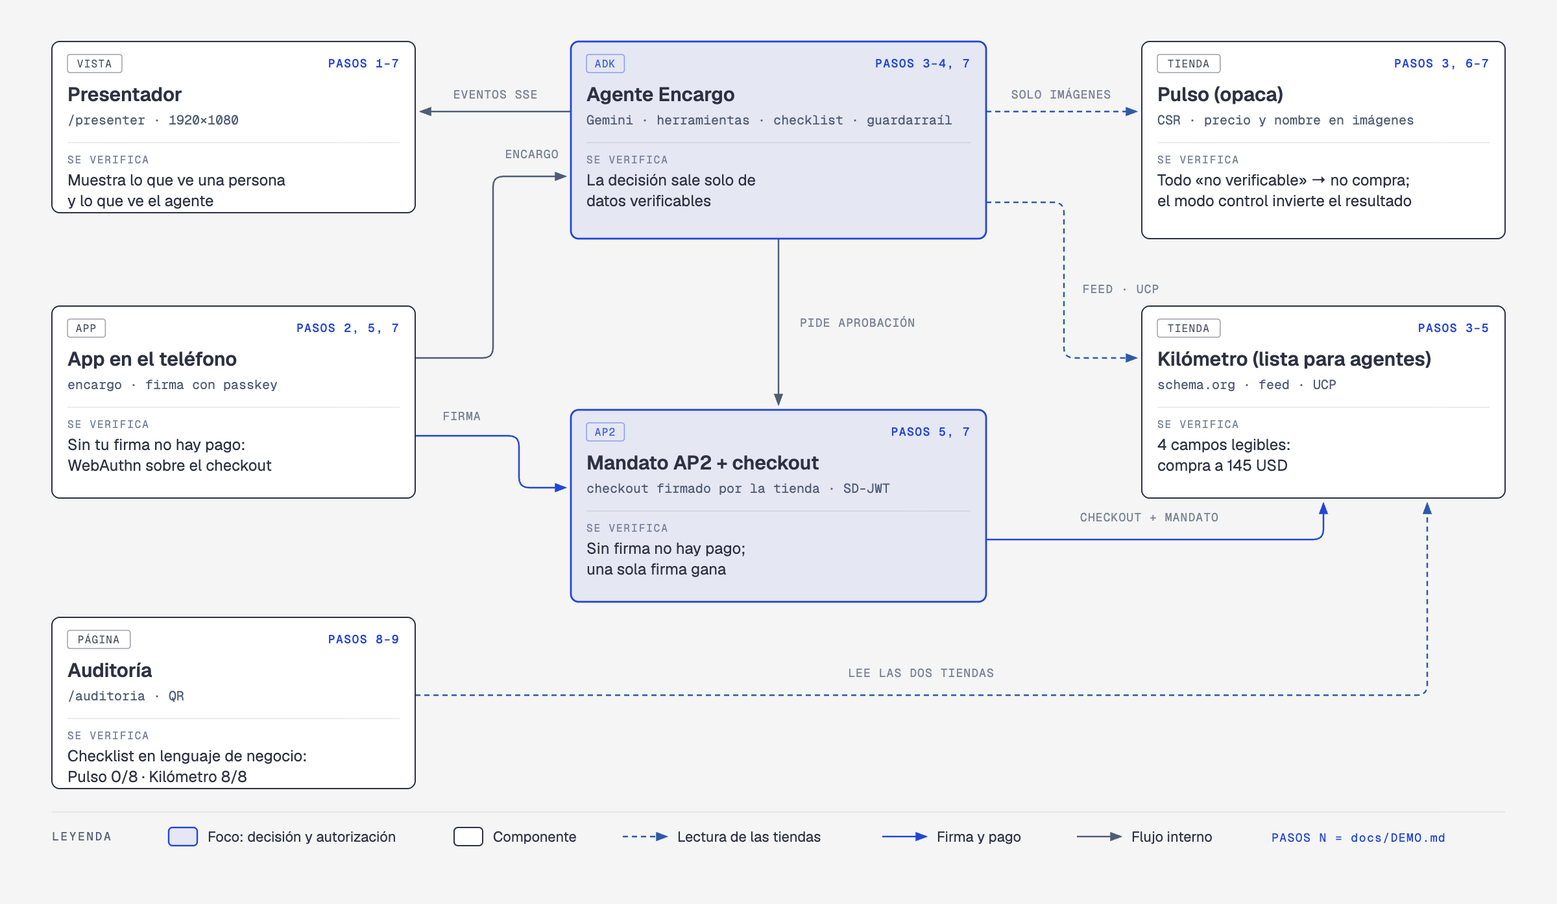
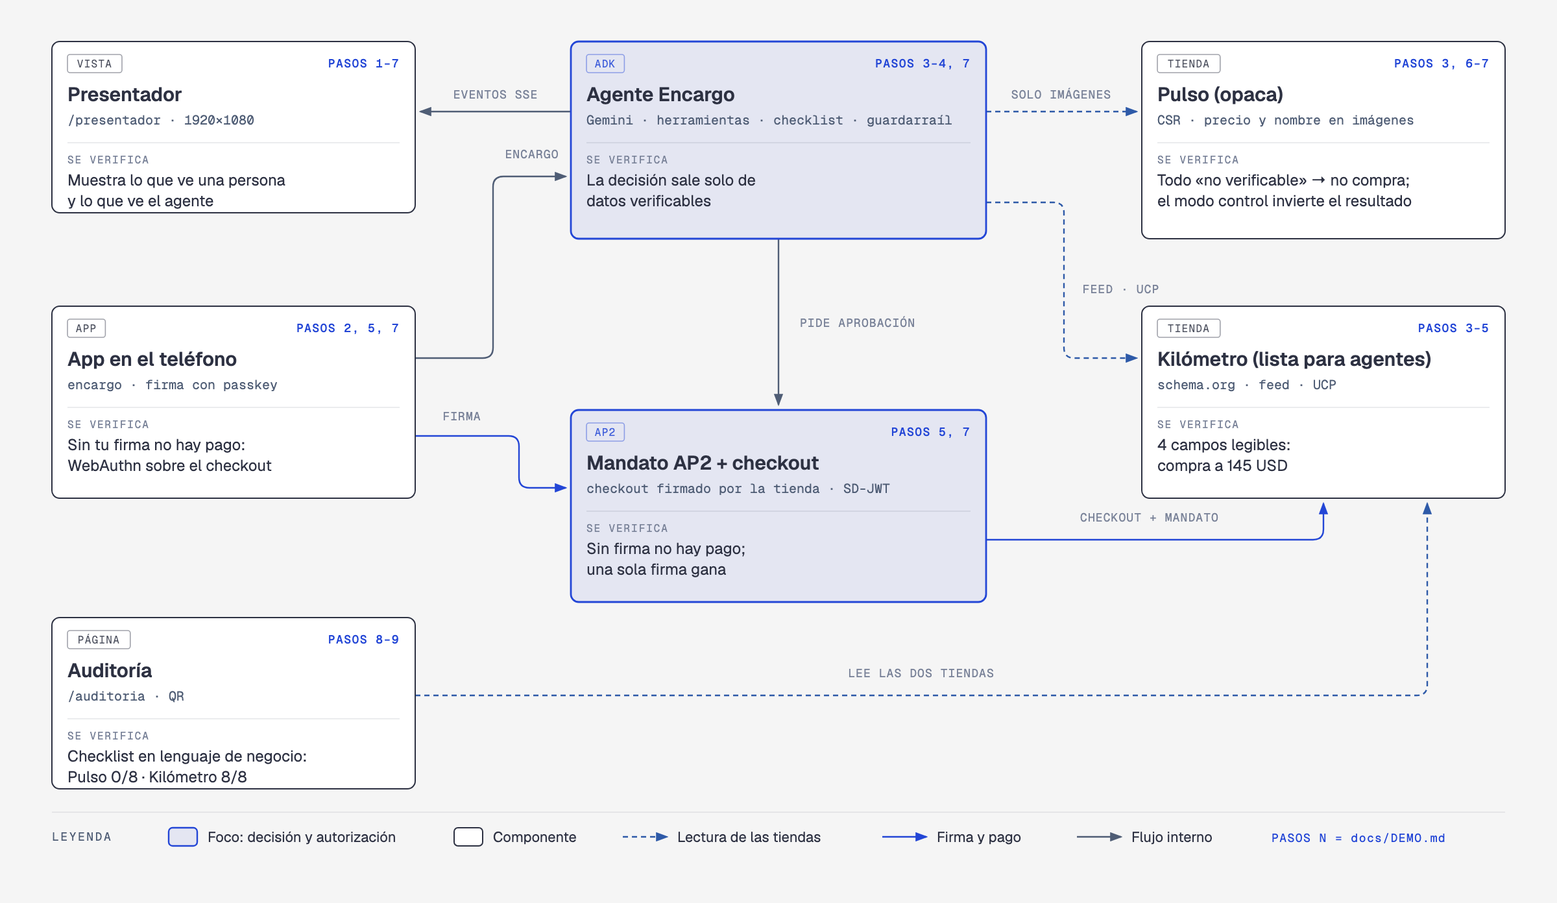
Docs: which pages are the product anyone can try and which is only the projector view; /presentador everywhere; phone screenshots; cold-start changes; diagrams re-rendered; real URL instead of an example domain in .env.example

diff --git a/docs/diagrams/que-se-prueba.html b/docs/diagrams/que-se-prueba.html
@@ -59,7 +59,7 @@
       <text x="73.0" y="116" fill="#2d3142" fill-opacity="0.85" font-size="8" font-family="'Geist Mono', monospace" text-anchor="middle" letter-spacing="0.08em">VISTA</text>
       <text x="308" y="116" fill="#2346D6" font-size="9" font-weight="500" font-family="'Geist Mono', monospace" text-anchor="end" letter-spacing="0.08em">PASOS 1–7</text>
       <text x="52" y="142" fill="#2d3142" font-size="15" font-weight="600" font-family="'Geist', sans-serif">Presentador</text>
-      <text x="52" y="160" fill="#4f5d75" font-size="10" font-family="'Geist Mono', monospace">/presenter · 1920×1080</text>
+      <text x="52" y="160" fill="#4f5d75" font-size="10" font-family="'Geist Mono', monospace">/presentador · 1920×1080</text>
       <line x1="52" y1="174" x2="308" y2="174" stroke="rgba(45,49,66,0.12)" stroke-width="0.8"/>
       <text x="52" y="190" fill="#7a8399" font-size="8" font-family="'Geist Mono', monospace" letter-spacing="0.12em">SE VERIFICA</text>
       <text x="52" y="207" fill="#2d3142" font-size="12" font-family="'Geist', sans-serif">Muestra lo que ve una persona</text>

diff --git a/docs/diagrams/architecture.html b/docs/diagrams/architecture.html
@@ -106,7 +106,7 @@
       <rect x="48" y="358" width="40" height="12" rx="2" fill="none" stroke="rgba(122,131,153,0.40)" stroke-width="0.8"/>
       <text x="68" y="367" fill="#7a8399" font-size="7" font-family="'Geist Mono', monospace" text-anchor="middle" letter-spacing="0.08em">LAPTOP</text>
       <text x="130" y="388" fill="#2d3142" font-size="12" font-weight="600" font-family="'Geist', sans-serif" text-anchor="middle">Presentador</text>
-      <text x="130" y="404" fill="#4f5d75" font-size="9" font-family="'Geist Mono', monospace" text-anchor="middle">/presenter · 1920×1080</text>
+      <text x="130" y="404" fill="#4f5d75" font-size="9" font-family="'Geist Mono', monospace" text-anchor="middle">/presentador · 1920×1080</text>
       <rect x="304" y="280" width="200" height="64" rx="6" fill="#f5f5f5"/>
       <rect x="304" y="280" width="200" height="64" rx="6" fill="#ffffff" stroke="#2d3142" stroke-width="1"/>
       <rect x="312" y="286" width="28" height="12" rx="2" fill="none" stroke="rgba(45,49,66,0.40)" stroke-width="0.8"/>

diff --git a/README.md b/README.md
@@ -20,7 +20,7 @@ Demo de la charla **«Tu próximo cliente es un agente de IA»**. Encargo es un 
 
 No se corre ningún comando. Se abren dos páginas en el mismo Chrome del portátil:
 
-- **Presentador**, en el proyector: https://encargo-app-611681112050.us-central1.run.app/presenter. Al abrirse despierta las tiendas, el agente y Gemini, y si llevaba rato sin uso empieza de cero. Dice «Preparando la demo…» y, en unos 15–20 s, «Envía un encargo desde la app». Ahí están el interruptor del modo de control, «Empezar de nuevo» y «Ver la ejecución grabada» (el plan B).
+- **Presentador** (vista del proyector, solo para la demo en vivo), en el proyector: https://encargo-app-611681112050.us-central1.run.app/presentador. Al abrirse despierta las tiendas, el agente y Gemini, y si llevaba rato sin uso empieza de cero. Dice «Preparando la demo…» y, en unos 15–20 s, «Envía un encargo desde la app». Ahí están el interruptor del modo de control, «Empezar de nuevo» y «Ver la ejecución grabada» (el plan B).
 - **Teléfono**, en la pantalla del portátil: https://encargo-app-611681112050.us-central1.run.app. Se envía el encargo y se firma con Touch ID.
 
 El guion completo está en [docs/DEMO.md](docs/DEMO.md).
@@ -33,24 +33,34 @@ gcloud auth application-default login      # ADC para Gemini en Vertex AI (o MOC
 (cd agent && uv run playwright install chromium)
 make up                                    # app :3000, Kilómetro :3001, Pulso :3002, agente :8000
 open "http://localhost:3000/configurar?clave=dev-admin"   # registra una passkey (Touch ID)
-open http://localhost:3000/presenter       # envía el encargo desde http://localhost:3000
+open http://localhost:3000/presentador     # envía el encargo desde http://localhost:3000
 make test                                  # todas las pruebas, sin red
 ```
 
 **Prueba de sesgo** (`make bias-test TARGET=cloud`, 2026-10-01): Kilómetro 9/10 con el modo apagado y Pulso 10/10 con el modo encendido, todas las ejecuciones en menos de 120 s ([detalle](docs/DECISIONES.md#resultados-de-la-prueba-de-sesgo)).
 
-## URLs desplegadas
+## Páginas desplegadas
 
-| Servicio | URL |
-| --- | --- |
-| App (teléfono) | https://encargo-app-611681112050.us-central1.run.app |
-| Presentador | https://encargo-app-611681112050.us-central1.run.app/presenter |
-| Auditoría | https://encargo-app-611681112050.us-central1.run.app/auditoria |
-| Kilómetro | https://encargo-kilometro-611681112050.us-central1.run.app |
-| Pulso | https://encargo-pulso-611681112050.us-central1.run.app |
-| Agente | https://encargo-agent-611681112050.us-central1.run.app (`/health`, `/.well-known/ucp`) |
+**El producto, lo que cualquiera puede probar** (en el teléfono, la tablet o la computadora):
 
-Usa estas URL y no los alias `…-uc.a.run.app`: la passkey está ligada al host de la app (RP ID) y con otro host la firma falla.
+| Página | URL | Qué es |
+| --- | --- | --- |
+| App Encargo | https://encargo-app-611681112050.us-central1.run.app | Escribes el encargo, ves cómo decide el agente y firmas la compra con tu passkey |
+| Auditoría | https://encargo-app-611681112050.us-central1.run.app/auditoria | Pega la dirección de una tienda y ve qué tan lista está para agentes |
+| Kilómetro | https://encargo-kilometro-611681112050.us-central1.run.app | Tienda ficticia lista para agentes |
+| Pulso | https://encargo-pulso-611681112050.us-central1.run.app | Tienda ficticia opaca para agentes |
+
+Todas se adaptan al teléfono y a la tablet. En un teléfono de 375 px: la app, un encargo en curso, la auditoría, Kilómetro, Pulso y el presentador.
+
+![Encargo en el teléfono](docs/demo/movil.png)
+
+**Solo para la demo en vivo:**
+
+| Página | URL | Qué es |
+| --- | --- | --- |
+| Presentador | https://encargo-app-611681112050.us-central1.run.app/presentador | La vista del proyector: muestra en grande lo que ve una persona, el razonamiento del agente y lo que ve el agente. Prepara los servicios al abrirse y tiene los botones de la charla. No es parte del producto |
+
+El agente no tiene página: es un servicio (https://encargo-agent-611681112050.us-central1.run.app, con `/health` y `/.well-known/ucp`). La dirección vieja `/presenter` lleva al presentador.
 
 ## Documentación
 

diff --git a/README.en.md b/README.en.md
@@ -20,7 +20,7 @@ The Spanish [README.md](README.md) is the primary document; this is a faithful E
 
 Nothing is run. Two pages are opened in the same Chrome on the laptop:
 
-- **Presenter**, on the projector: https://encargo-app-611681112050.us-central1.run.app/presenter. When it opens it wakes the stores, the agent and Gemini, and if it sat idle for a while it starts from scratch. It says «Preparando la demo…» and, in about 15–20 s, «Envía un encargo desde la app». The control-mode switch, «Empezar de nuevo» and «Ver la ejecución grabada» (Plan B) are there.
+- **Presentador** (projector view, only for the live demo), on the projector: https://encargo-app-611681112050.us-central1.run.app/presentador. When it opens it wakes the stores, the agent and Gemini, and if it sat idle for a while it starts from scratch. It says «Preparando la demo…» and, in about 15–20 s, «Envía un encargo desde la app». The control-mode switch, «Empezar de nuevo» and «Ver la ejecución grabada» (Plan B) are there.
 - **Phone**, on the laptop screen: https://encargo-app-611681112050.us-central1.run.app. The errand is sent and signed with Touch ID there.
 
 The full script is in [docs/DEMO.en.md](docs/DEMO.en.md).
@@ -33,24 +33,34 @@ gcloud auth application-default login      # ADC for Gemini on Vertex AI (or MOC
 (cd agent && uv run playwright install chromium)
 make up                                    # app :3000, Kilómetro :3001, Pulso :3002, agent :8000
 open "http://localhost:3000/configurar?clave=dev-admin"   # register a passkey (Touch ID)
-open http://localhost:3000/presenter       # send the errand from http://localhost:3000
+open http://localhost:3000/presentador     # send the errand from http://localhost:3000
 make test                                  # every test, offline
 ```
 
 **Bias test** (`make bias-test TARGET=cloud`, 2026-10-01): Kilómetro 9/10 with control off and Pulso 10/10 with control on, every run under 120 s ([details](docs/DECISIONES.en.md#bias-test-results)).
 
-## Deployed URLs
+## Deployed pages
 
-| Service | URL |
-| --- | --- |
-| App (phone) | https://encargo-app-611681112050.us-central1.run.app |
-| Presenter | https://encargo-app-611681112050.us-central1.run.app/presenter |
-| Audit | https://encargo-app-611681112050.us-central1.run.app/auditoria |
-| Kilómetro | https://encargo-kilometro-611681112050.us-central1.run.app |
-| Pulso | https://encargo-pulso-611681112050.us-central1.run.app |
-| Agent | https://encargo-agent-611681112050.us-central1.run.app (`/health`, `/.well-known/ucp`) |
+**The product, what anyone can try** (on a phone, tablet or computer):
 
-Use these URLs, not the `…-uc.a.run.app` aliases: the passkey is bound to the app's host name (RP ID), and on another host the signature fails.
+| Page | URL | What it is |
+| --- | --- | --- |
+| Encargo app | https://encargo-app-611681112050.us-central1.run.app | Write the errand, watch the agent decide and sign the purchase with your passkey |
+| Audit | https://encargo-app-611681112050.us-central1.run.app/auditoria | Paste a store's address and see how ready it is for agents |
+| Kilómetro | https://encargo-kilometro-611681112050.us-central1.run.app | Fictitious agent-ready store |
+| Pulso | https://encargo-pulso-611681112050.us-central1.run.app | Fictitious store that is opaque to agents |
+
+They all adapt to phones and tablets. On a 375 px phone: the app, an errand in progress, the audit, Kilómetro, Pulso and the presentador.
+
+![Encargo on a phone](docs/demo/movil.png)
+
+**Only for the live demo:**
+
+| Page | URL | What it is |
+| --- | --- | --- |
+| Presentador | https://encargo-app-611681112050.us-central1.run.app/presentador | The projector view: shows large what a person sees, the agent's reasoning and what the agent sees. It prepares the services when it opens and holds the talk's buttons. Not part of the product |
+
+The agent has no page: it is a service (https://encargo-agent-611681112050.us-central1.run.app, with `/health` and `/.well-known/ucp`). The old `/presenter` address leads to the presentador.
 
 ## Documentation
 

diff --git a/docs/DECISIONES.md b/docs/DECISIONES.md
@@ -199,13 +199,17 @@ El encargo se interpreta con un parser determinista (expresiones regulares) y no
 
 ### El día de la charla no se corre nada: la página del presentador prepara el escenario
 
-Los cuatro servicios quedan con 0 instancias mínimas (`MIN_INSTANCES`, 0 por omisión), así que nada se cobra las 24 horas. Al abrirse, `/presenter` llama a `POST /stage/warmup` del agente (`agent/encargo/stage.py`):
+Los cuatro servicios quedan con 0 instancias mínimas (`MIN_INSTANCES`, 0 por omisión), así que nada se cobra las 24 horas. Al abrirse, `/presentador` llama a `POST /stage/warmup` del agente (`agent/encargo/stage.py`):
 
 - despierta las tiendas (portada, feed y perfil UCP) y el agente;
 - hace una llamada corta a Gemini y arranca Chromium, como mucho cada 5 minutos;
 - si pasaron más de 10 minutos desde el último encargo y no hay uno en curso, reinicia: stock completo, sin pedidos ni encargo en pantalla, modo de control apagado.
 
-Después consulta `GET /stage/status` cada 3 s y muestra «Preparando la demo…» con cada parte hasta que todo responde. Desde 0 instancias tarda unos 16 s (medido el 6 oct 2026 con instancias nuevas, reinicio incluido). Mientras la página siga abierta, cada 4 minutos vuelve a despertar los servicios, así que Cloud Run no los apaga a mitad de la charla. Lo que antes revisaba un portero de línea de comandos ahora lo dice la página: tiendas que no responden, que no haya passkey o que quede poco stock de la talla 9.
+Después consulta `GET /stage/status` cada 3 s y muestra «Preparando la demo…» con cada parte hasta que todo responde. Desde 0 instancias tarda unos 16 s (medido el 6 oct 2026 con instancias nuevas, reinicio incluido). Mientras la página siga abierta, cada 4 minutos vuelve a despertar los servicios, así que Cloud Run no los apaga a mitad de la charla.
+
+**Arranque en frío más corto (7 oct 2026).** El que más tardaba en arrancar era el agente: unos 12 s entre que Cloud Run crea la instancia y el servidor responde, contra ~1.5 s de las tiendas y la app. Tres cambios baratos: la imagen del agente instala solo el Chromium sin interfaz (`playwright install --only-shell`; el agente nunca abre una ventana), con lo que pasa de 677 MB a 492 MB; el servidor arranca directo desde el entorno virtual, sin pasar por `uv run`; y el presentador despierta las tiendas al mismo tiempo que el agente, en vez de esperar a que el agente las despierte. Medido en Cloud Run: el agente arranca en 5.5–9.5 s. Todos los servicios ya tenían el impulso de CPU al arrancar (`startup-cpu-boost`).
+
+Lo que antes revisaba un portero de línea de comandos ahora lo dice la página: tiendas que no responden, que no haya passkey o que quede poco stock de la talla 9.
 
 **Descartado:**
 

diff --git a/docs/DECISIONES.en.md b/docs/DECISIONES.en.md
@@ -199,13 +199,17 @@ The errand is parsed with a deterministic parser (regular expressions), not by t
 
 ### Nothing is run on talk day: the presenter page prepares the stage
 
-The four services keep 0 minimum instances (`MIN_INSTANCES`, 0 by default), so nothing bills around the clock. When it opens, `/presenter` calls the agent's `POST /stage/warmup` (`agent/encargo/stage.py`):
+The four services keep 0 minimum instances (`MIN_INSTANCES`, 0 by default), so nothing bills around the clock. When it opens, `/presentador` calls the agent's `POST /stage/warmup` (`agent/encargo/stage.py`):
 
 - it wakes the stores (home page, feed and UCP profile) and the agent;
 - it makes one short Gemini call and launches Chromium, at most every 5 minutes;
 - if more than 10 minutes passed since the last errand and none is in flight, it resets: full stock, no orders or errand on screen, control mode off.
 
-Then it polls `GET /stage/status` every 3 s and shows «Preparando la demo…» with each part until everything answers. From 0 instances it takes about 16 s (measured on 6 Oct 2026 with fresh instances, reset included). While the page stays open it wakes the services again every 4 minutes, so Cloud Run does not scale them down mid-talk. What a command-line gate used to check, the page now says: stores not answering, no passkey, or low size-9 stock.
+Then it polls `GET /stage/status` every 3 s and shows «Preparando la demo…» with each part until everything answers. From 0 instances it takes about 16 s (measured on 6 Oct 2026 with fresh instances, reset included). While the page stays open it wakes the services again every 4 minutes, so Cloud Run does not scale them down mid-talk.
+
+**Shorter cold start (7 Oct 2026).** The agent was the slow one: about 12 s from Cloud Run creating the instance to the server answering, against ~1.5 s for the stores and the app. Three cheap changes: the agent image installs only the headless Chromium shell (`playwright install --only-shell`; the agent never opens a window), going from 677 MB to 492 MB; the server starts straight from the virtualenv instead of through `uv run`; and the presentador wakes the stores at the same time as the agent instead of waiting for the agent to wake them. Measured on Cloud Run: the agent starts in 5.5–9.5 s. Every service already had startup CPU boost (`startup-cpu-boost`).
+
+What a command-line gate used to check, the page now says: stores not answering, no passkey, or low size-9 stock.
 
 **Ruled out:**
 

diff --git a/docs/ESTRUCTURA.md b/docs/ESTRUCTURA.md
@@ -10,7 +10,7 @@ Qué corre dónde y dónde está cada cosa en el código. Volver al [README](../
 | Kilómetro | `stores/kilometro/` | Next.js con render en el servidor, API UCP, SQLite en el proceso | `encargo-kilometro` |
 | Kit de comercio compartido | `stores/shared/` | schema.org, feed, UCP y verificación AP2 (TypeScript). Se copia dentro de cada tienda | — |
 | Agente Encargo | `agent/` | Python 3.13, ADK, Gemini (`GEMINI_MODEL`) vía Vertex AI, Playwright (Chromium headless), FastAPI | `encargo-agent` |
-| App Encargo | `app/` | Next.js. El encargo y la aprobación con passkey en el «teléfono» (`/`, `/encargo/[id]`), el presentador (`/presenter`), la configuración de la passkey (`/configurar`) y la auditoría (`/auditoria`) | `encargo-app` |
+| App Encargo | `app/` | Next.js. El encargo y la aprobación con passkey en el «teléfono» (`/`, `/encargo/[id]`), el presentador (`/presentador`), la configuración de la passkey (`/configurar`) y la auditoría (`/auditoria`) | `encargo-app` |
 | Estado de las ejecuciones | — | Firestore, base `encargo` | — |
 
 La app nunca llama al agente desde el navegador. Usa un proxy en el mismo origen (`app/src/app/api/agent/[...path]/route.ts`), incluido el stream SSE, para que las passkeys tengan un solo origen y no haya CORS. El agente transmite cada paso como eventos (`step`, `observation`, `agent_view`, `checklist`, `approval_requested`, `order_confirmed`, …). El teléfono y el presentador dibujan esos mismos eventos.
@@ -52,7 +52,7 @@ encargo/
 │   ├── mock_planner.py     MOCK_AI=1: planificador determinista con las mismas herramientas
 │   └── api.py              FastAPI: /runs, SSE, /mandates, /passkeys, /stage, /audit, /.well-known/ucp
 ├── app/src/
-│   ├── app/                /, /encargo/[id], /presenter, /configurar, /auditoria, /api/agent (proxy)
+│   ├── app/                /, /encargo/[id], /presentador, /configurar, /auditoria, /api/agent (proxy)
 │   ├── components/         ErrandForm, RunPhone, Presenter, PasskeySetup, AuditView, PhoneTop, Logo, Icons
 │   └── lib/                useRun (SSE), runState (eventos → pantalla), useReplay (plan B), stage, stageClient (preparar, reiniciar, habilitar con Touch ID), auditCopy
 ├── infra/                  10-enable-apis, 20-secrets, 30-deploy-stores, 40-deploy-agent, 50-deploy-app

diff --git a/docs/ESTRUCTURA.en.md b/docs/ESTRUCTURA.en.md
@@ -10,7 +10,7 @@ What runs where and where each thing lives in the code. Back to the [README](../
 | Kilómetro | `stores/kilometro/` | Next.js with server rendering, UCP API, in-process SQLite | `encargo-kilometro` |
 | Shared commerce kit | `stores/shared/` | schema.org, feed, UCP and AP2 verification (TypeScript). Copied into each store | — |
 | Encargo agent | `agent/` | Python 3.13, ADK, Gemini (`GEMINI_MODEL`) on Vertex AI, Playwright (headless Chromium), FastAPI | `encargo-agent` |
-| Encargo app | `app/` | Next.js. The errand and passkey approval on the "phone" (`/`, `/encargo/[id]`), the presenter (`/presenter`), passkey setup (`/configurar`) and the audit (`/auditoria`) | `encargo-app` |
+| Encargo app | `app/` | Next.js. The errand and passkey approval on the "phone" (`/`, `/encargo/[id]`), the presenter (`/presentador`), passkey setup (`/configurar`) and the audit (`/auditoria`) | `encargo-app` |
 | Run state | — | Firestore, database `encargo` | — |
 
 The app never calls the agent from the browser. It uses a same-origin proxy (`app/src/app/api/agent/[...path]/route.ts`), including the SSE stream, so passkeys have one origin and there is no CORS. The agent streams every step as events (`step`, `observation`, `agent_view`, `checklist`, `approval_requested`, `order_confirmed`, …). The phone and the presenter render those same events.
@@ -52,7 +52,7 @@ encargo/
 │   ├── mock_planner.py     MOCK_AI=1: deterministic planner with the same tools
 │   └── api.py              FastAPI: /runs, SSE, /mandates, /passkeys, /stage, /audit, /.well-known/ucp
 ├── app/src/
-│   ├── app/                /, /encargo/[id], /presenter, /configurar, /auditoria, /api/agent (proxy)
+│   ├── app/                /, /encargo/[id], /presentador, /configurar, /auditoria, /api/agent (proxy)
 │   ├── components/         ErrandForm, RunPhone, Presenter, PasskeySetup, AuditView, PhoneTop, Logo, Icons
 │   └── lib/                useRun (SSE), runState (events → screen), useReplay (Plan B), stage, stageClient (prepare, reset, enable with Touch ID), auditCopy
 ├── infra/                  10-enable-apis, 20-secrets, 30-deploy-stores, 40-deploy-agent, 50-deploy-app

diff --git a/docs/DEMO.md b/docs/DEMO.md
@@ -10,11 +10,13 @@ Cada bloque del diagrama dice qué pasos de este guion lo ejercitan («PASOS N»
 
 ## Antes de la demo
 
+El **presentador** es una página solo para la demo en vivo: la vista del proyector. El producto que cualquiera puede probar es la app (el «teléfono»), la auditoría y las dos tiendas ([README](../README.md#páginas-desplegadas)).
+
 Unos minutos antes, con internet, abre dos ventanas del mismo perfil de Chrome (ahí vive la passkey):
 
 | Ventana | Dirección | Dónde va |
 | --- | --- | --- |
-| Presentador | `https://encargo-app-611681112050.us-central1.run.app/presenter`, en pantalla completa | Proyector, 1920×1080 |
+| Presentador | `https://encargo-app-611681112050.us-central1.run.app/presentador`, en pantalla completa | Proyector, 1920×1080 |
 | «Teléfono» | `https://encargo-app-611681112050.us-central1.run.app` | Pantalla del portátil, a un lado. La ves tú; el público ve el presentador |
 | Auditoría (para el cierre) | `https://encargo-app-611681112050.us-central1.run.app/auditoria`, en otra pestaña | Detrás del presentador; la traes al proyector en el paso 8 |
 

diff --git a/docs/ONBOARDING.md b/docs/ONBOARDING.md
@@ -62,7 +62,7 @@ make up
 | URL | Qué es |
 | --- | --- |
 | `http://localhost:3000` | App Encargo: el «teléfono» (encargo y aprobación) |
-| `http://localhost:3000/presenter` | Vista del presentador (1920×1080) |
+| `http://localhost:3000/presentador` | Vista del presentador (1920×1080) |
 | `http://localhost:3000/configurar?clave=dev-admin` | Registro de la passkey |
 | `http://localhost:3000/auditoria` | Auditoría de preparación para agentes |
 | `http://localhost:3001` | Kilómetro |
@@ -440,7 +440,7 @@ El guion, con capturas y qué decir en cada pantalla, está en [DEMO.md](DEMO.md
 
 ### Qué pasa cuando abres el presentador
 
-`/presenter` llama a `POST /stage/warmup` del agente (`agent/encargo/stage.py`) y luego consulta `GET /stage/status` cada 3 s hasta que todo está listo:
+`/presentador` llama a `POST /stage/warmup` del agente (`agent/encargo/stage.py`) y luego consulta `GET /stage/status` cada 3 s hasta que todo está listo:
 
 - despierta las dos tiendas (portada, feed y perfil UCP) y el agente;
 - hace una llamada corta a Gemini y arranca Chromium (como mucho cada 5 minutos);

diff --git a/docs/DEMO.en.md b/docs/DEMO.en.md
@@ -10,11 +10,13 @@ Each block of the diagram names the steps of this script that exercise it ("PASO
 
 ## Before the demo
 
+The **presentador** is a page only for the live demo: the projector view. The product anyone can try is the app (the "phone"), the audit and both stores ([README](../README.en.md#deployed-pages)).
+
 A few minutes before, with internet, open two windows of the same Chrome profile (the passkey lives there):
 
 | Window | Address | Where it goes |
 | --- | --- | --- |
-| Presenter | `https://encargo-app-611681112050.us-central1.run.app/presenter`, full screen | Projector, 1920×1080 |
+| Presenter | `https://encargo-app-611681112050.us-central1.run.app/presentador`, full screen | Projector, 1920×1080 |
 | "Phone" | `https://encargo-app-611681112050.us-central1.run.app` | Laptop screen, to one side. You see it; the audience sees the presenter |
 | Audit (for the close) | `https://encargo-app-611681112050.us-central1.run.app/auditoria`, in another tab | Behind the presenter; bring it to the projector in step 8 |
 

diff --git a/docs/COMANDOS.md b/docs/COMANDOS.md
@@ -33,7 +33,7 @@ make up                                    # app :3000, Kilómetro :3001, Pulso 
 ```
 
 - Abre `http://localhost:3000/configurar?clave=dev-admin` y registra una passkey (Touch ID). En la nube ya hay una registrada; un navegador nuevo se habilita en el teléfono con «Habilitar con Touch ID».
-- Envía el encargo desde `http://localhost:3000` y míralo en `http://localhost:3000/presenter`.
+- Envía el encargo desde `http://localhost:3000` y míralo en `http://localhost:3000/presentador`.
 - `make test` corre todas las pruebas sin red.
 
 Los detalles (requisitos, nube, ensayo y día de la charla) están en [ONBOARDING.md](ONBOARDING.md).
